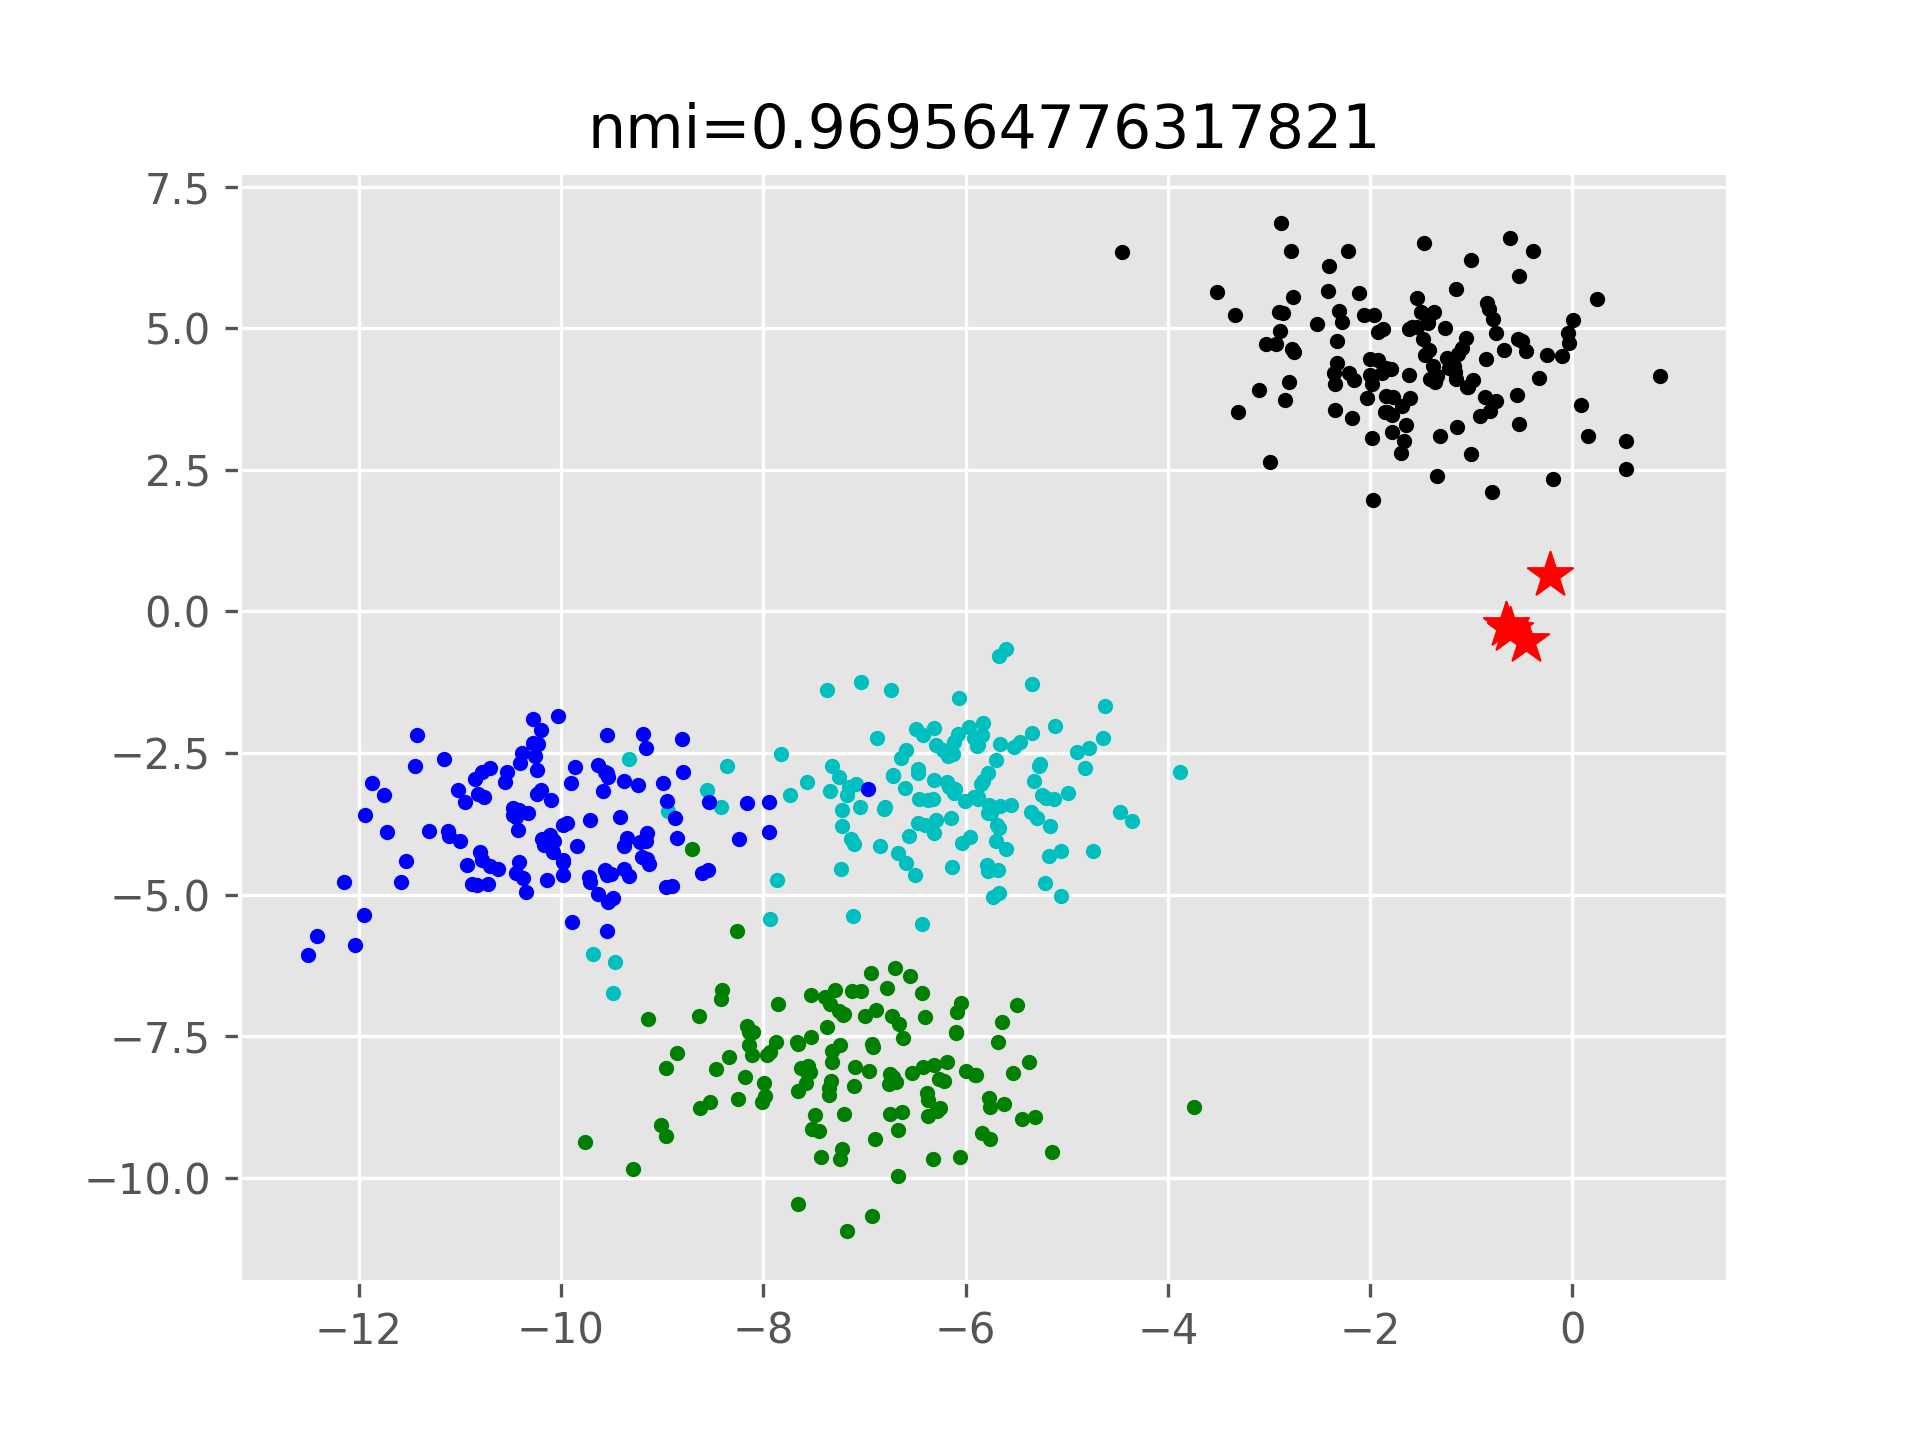
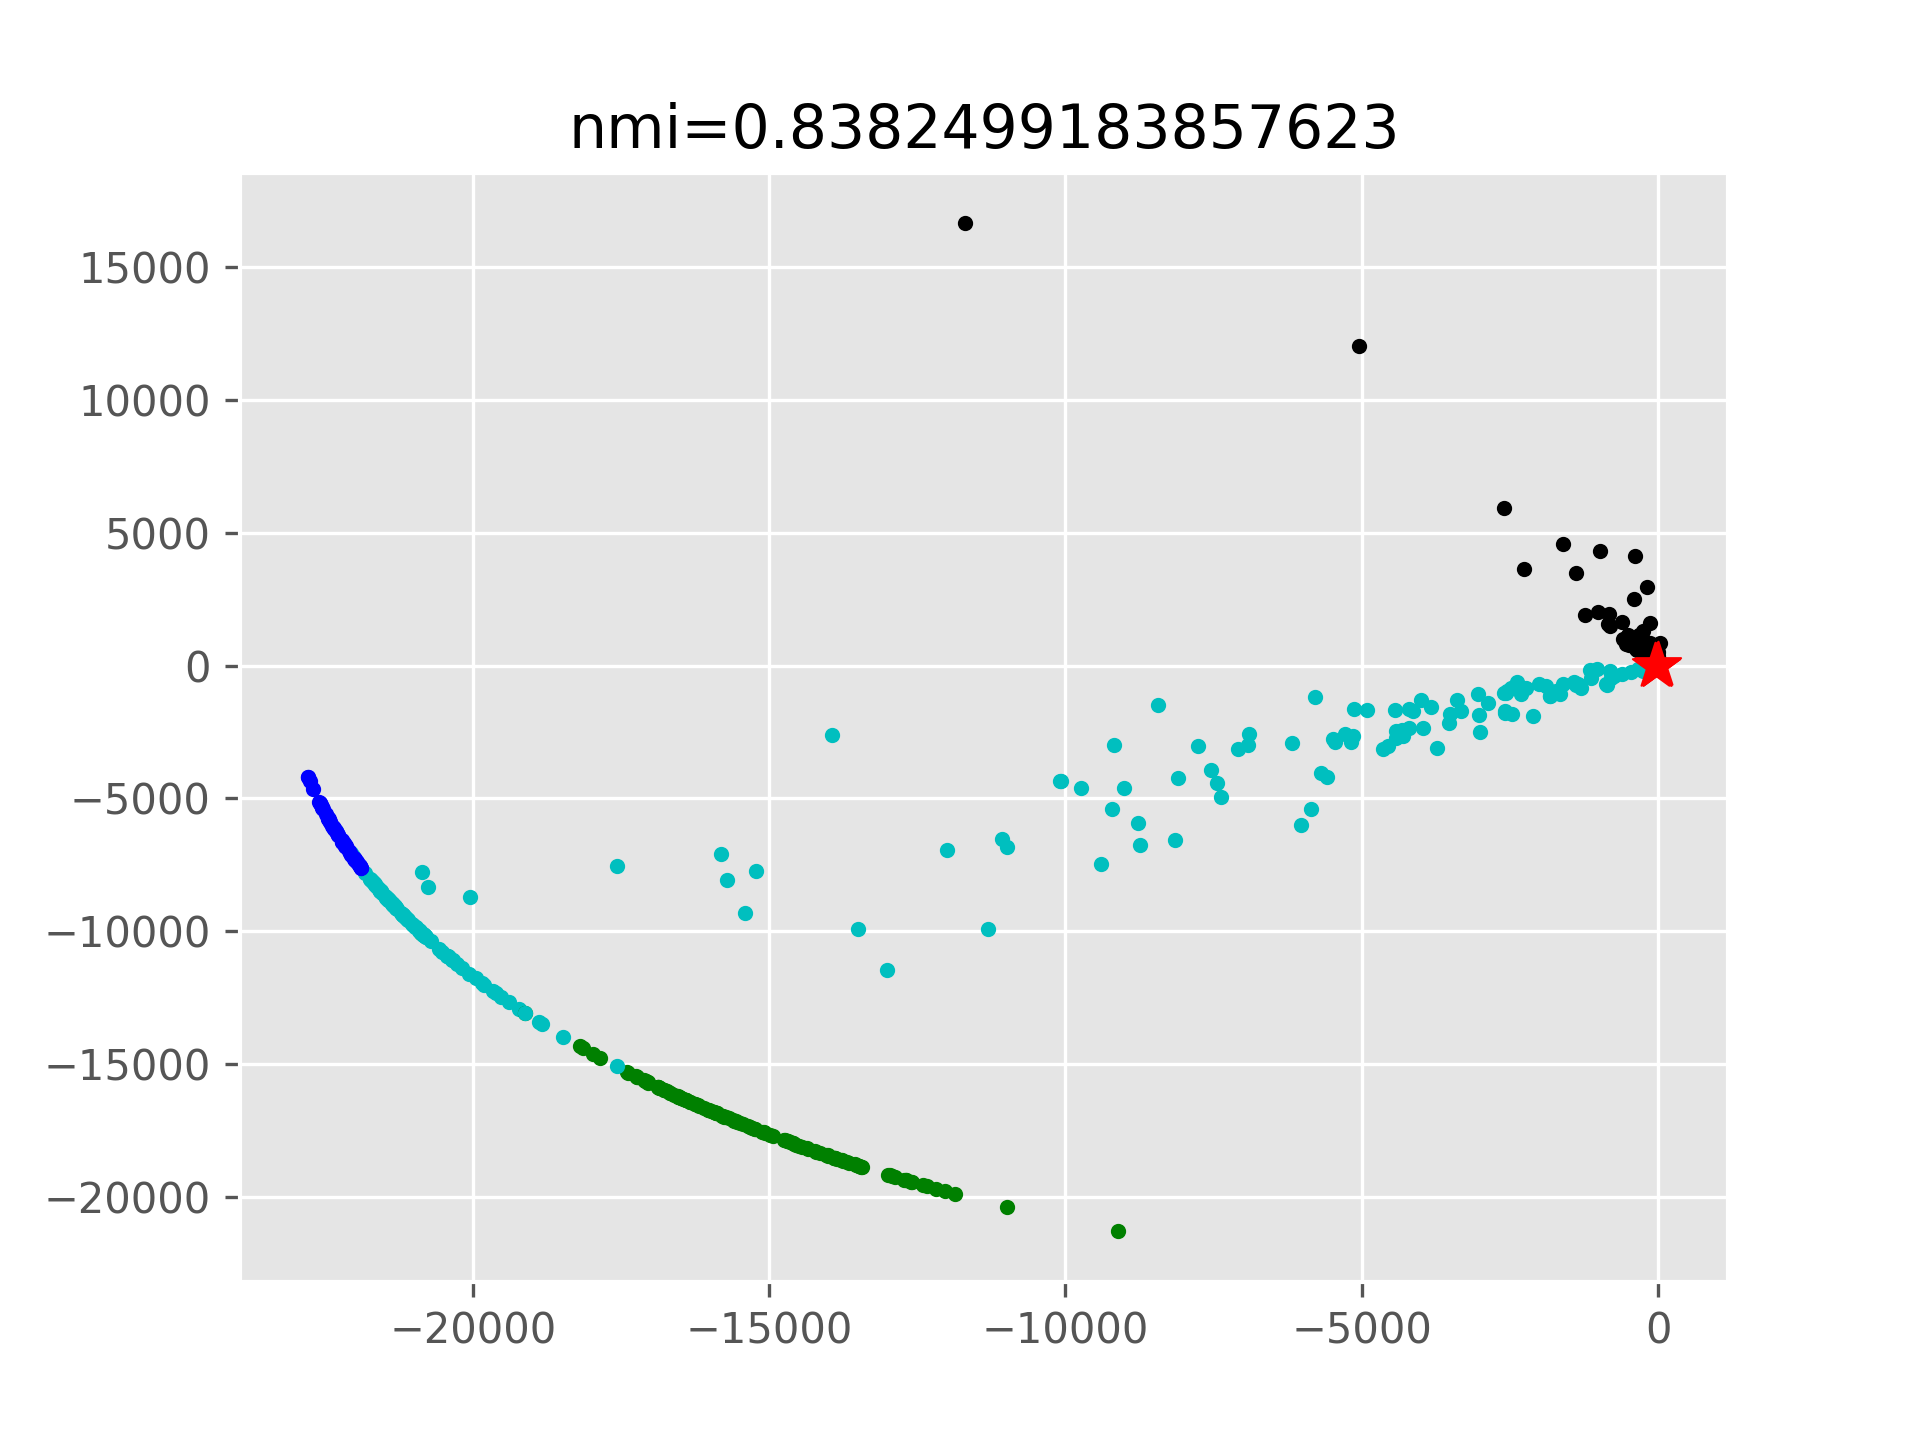
Tested and fixed K-Means with new midpoints

diff --git a/methods/clustering/faster_mix_k_means_pytorch.py b/methods/clustering/faster_mix_k_means_pytorch.py
@@ -7,6 +7,7 @@ from sklearn.utils import check_random_state
 import project_utils.lorentz as L
 import project_utils.poincare as P
 import torch
+import torch.nn.functional as F
 
 def pairwise_distance(data1, data2, batch_size=None):
     r'''
@@ -104,9 +105,9 @@ class K_Means:
             if self.hyperbolic:
                 # TODO: Consider adding batching to Lorentz and Poincare pairwise distance if needed
                 if self.poincare:
-                    dist = P.pairwise_dist(X, C, curv = -self.curv)
+                    dist = P.pairwise_dist(X, C, curv = -self.curv, eps=1e-6)**2
                 else:
-                    dist = L.pairwise_dist(X, C, curv = self.curv)
+                    dist = L.pairwise_dist(X, C, curv = self.curv, eps=1e-6)**2
             else:
                 dist = pairwise_distance(X, C, self.pairwise_batch_size)
             dist = dist.view(-1, C.shape[0])
@@ -153,9 +154,9 @@ class K_Means:
             centers_old = centers.clone()
             if self.hyperbolic:
                 if self.poincare:
-                    dist = P.pairwise_dist(X, centers, curv = -self.curv)
+                    dist = P.pairwise_dist(X, centers, curv = -self.curv, eps=1e-6)
                 else:
-                    dist = L.pairwise_dist(X, centers, curv = self.curv)
+                    dist = L.pairwise_dist(X, centers, curv = self.curv, eps=1e-6)
             else:
                 dist = pairwise_distance(X, centers, self.pairwise_batch_size)
             mindist, labels = torch.min(dist, dim=1)
@@ -180,9 +181,9 @@ class K_Means:
 
             if self.hyperbolic:
                 if self.poincare:
-                    center_shift = torch.sum(P.elementwise_dist(centers, centers_old, curv = -self.curv))
+                    center_shift = torch.sum(P.elementwise_dist(centers, centers_old, curv = -self.curv, eps=1e-6))
                 else:
-                    center_shift = torch.sum(L.elementwise_dist(centers, centers_old, curv = self.curv))
+                    center_shift = torch.sum(L.elementwise_dist(centers, centers_old, curv = self.curv, eps=1e-6))
             else:
                 center_shift = torch.sum(torch.sqrt(torch.sum((centers - centers_old) ** 2, dim=1)))
             if center_shift ** 2 < self.tolerance:
@@ -224,7 +225,18 @@ class K_Means:
             labels[i] = cid2ncid[l_targets[i]]
 
         #initialize the centers, the first 'k' elements in the dataset will be our initial centers
-        centers = self.kpp(u_feats, l_centers, k=self.k, random_state=random_state)
+        if self.init == 'k-means++':
+            centers = self.kpp(u_feats, l_centers, k=self.k, random_state=random_state)
+        elif self.init == 'random':
+
+            random_state = check_random_state(self.random_state)
+            idx = random_state.choice(len(u_feats), self.k, replace=False)
+            for i in range(self.k):
+                centers[len(l_classes):i] = u_feats[idx[i]]
+
+        else:
+            for i in range(self.k):
+                centers[len(l_classes):i] = u_feats[i]
 
         # Begin iterations
         best_labels, best_inertia, best_centers = None, None, None
@@ -233,9 +245,9 @@ class K_Means:
 
             if self.hyperbolic:
                 if self.poincare:
-                    dist = P.pairwise_dist(cat_feats, centers, curv = -self.curv)
+                    dist = P.pairwise_dist(u_feats, centers, curv = -self.curv, eps=1e-6)
                 else:
-                    dist = L.pairwise_dist(u_feats, centers, curv = self.curv)
+                    dist = L.pairwise_dist(u_feats, centers, curv = self.curv, eps=1e-6)
             else:
                 dist = pairwise_distance(u_feats, centers, self.pairwise_batch_size)
             u_mindist, u_labels = torch.min(dist, dim=1)
@@ -243,13 +255,13 @@ class K_Means:
             if self.hyperbolic:
                 # DONE: Optimize by not having to take pairwise distance
                 if self.poincare:
-                    l_mindist = L.elementwise_dist(l_feats, centers[labels[:l_num]], curv = -self.curv)
+                    l_mindist = P.elementwise_dist(l_feats, centers[labels[:l_num]], curv = -self.curv, eps=1e-6)
                 else:
                     #l_dist = L.pairwise_dist(l_feats, centers, curv = self.curv)
                     # Get the distance to the corresponding label's center
                     #l_mindist = l_dist[torch.arange(l_num), labels[:l_num]]
                     #l_mindist, _ = torch.min(l_dist, dim=1)
-                    l_mindist = L.elementwise_dist(l_feats, centers[labels[:l_num]], curv = self.curv)
+                    l_mindist = L.elementwise_dist(l_feats, centers[labels[:l_num]], curv = self.curv, eps=1e-6)
             else:
                 # Done: Investigate how the hell this works. l_feats and centers are not the same shape afaik
                 # Might have to do with the assignment inside centers. Just looked, it does
@@ -279,9 +291,9 @@ class K_Means:
             # DONE: Add hyperbolic distance
             if self.hyperbolic:
                 if self.poincare:
-                    center_shift = torch.sum(P.elementwise_dist(centers, centers_old, curv = -self.curv))
+                    center_shift = torch.sum(P.elementwise_dist(centers, centers_old, curv = -self.curv, eps=1e-6))
                 else:
-                    center_shift = torch.sum(L.elementwise_dist(centers, centers_old, curv = self.curv))
+                    center_shift = torch.sum(L.elementwise_dist(centers, centers_old, curv = self.curv, eps=1e-6))
             else:
                 center_shift = torch.sum(torch.sqrt(torch.sum((centers - centers_old) ** 2, dim=1)))
 
@@ -373,6 +385,16 @@ def main():
                       center_box=(-10.0, 10.0),
                       shuffle=True,
                       random_state=1)  # For reproducibility
+    print(torch.from_numpy(X).norm(dim=-1).max())
+    X = torch.from_numpy(X)
+    #X = torch.where(X.norm(dim=-1, keepdim=True) < 2, X, 2*F.normalize(X, dim=-1))
+    X = L.exp_map0(X, curv=torch.tensor(2.0))
+    #X = P.expmap0(X, k=torch.tensor(-2.0), project=False)
+    #X = P.project(X, k=torch.tensor(-2.0), eps=1-1e-3)
+    if X.isnan().any():
+        print("X has NaN values")
+        exit()
+    X = np.array(X)
 
     cuda = torch.cuda.is_available()
     device = torch.device("cuda" if cuda else "cpu")
@@ -392,6 +414,7 @@ def main():
 
     #km = K_Means(k=4, init='k-means++', random_state=1, n_jobs=None, pairwise_batch_size=10)
     km = K_Means(k=4, init='k-means++', random_state=1, n_jobs=None, pairwise_batch_size=10, hyperbolic=True, curv=2.0)
+    #km = K_Means(k=4, init='k-means++', random_state=1, n_jobs=None, pairwise_batch_size=10, hyperbolic=True, poincare=True, curv=2.0)
 
     #  km.fit(X)
 
@@ -399,6 +422,7 @@ def main():
     #  X = X.cpu()
     X = cat_feats.cpu()
     centers = km.cluster_centers_.cpu()
+    print(centers)
     pred = km.labels_.cpu()
     print('nmi', nmi_score(pred, y))
 
@@ -415,6 +439,7 @@ def main():
     plt.title(f"nmi={nmi_score(pred, y)}")
     #plt.savefig('kmeans.png', dpi=300)
     plt.savefig('hyperbolic_kmeans.png', dpi=300)
+    #plt.savefig('poincare_kmeans.png', dpi=300)
     plt.show()
 
 if __name__ == "__main__":

diff --git a/methods/contrastive_training/contrastive_training.py b/methods/contrastive_training/contrastive_training.py
@@ -493,7 +493,7 @@ def test_kmeans(model, test_loader,
     all_feats = np.concatenate(all_feats)
     if args.hyperbolic:
         #TODO: Investigate why K++ is failing to assign more than one center (Points too close to one another maybe?)
-        kmeans = SemiSupKMeans(k=args.num_labeled_classes + args.num_unlabeled_classes, random_state=0, hyperbolic=True, curv=model[1].get_curvature(), init="random")
+        kmeans = SemiSupKMeans(k=args.num_labeled_classes + args.num_unlabeled_classes, random_state=0, hyperbolic=True, curv=model[1].get_curvature(), init="k-means++")
         kmeans.fit(all_feats)
         preds = kmeans.labels_.numpy()
     else:
